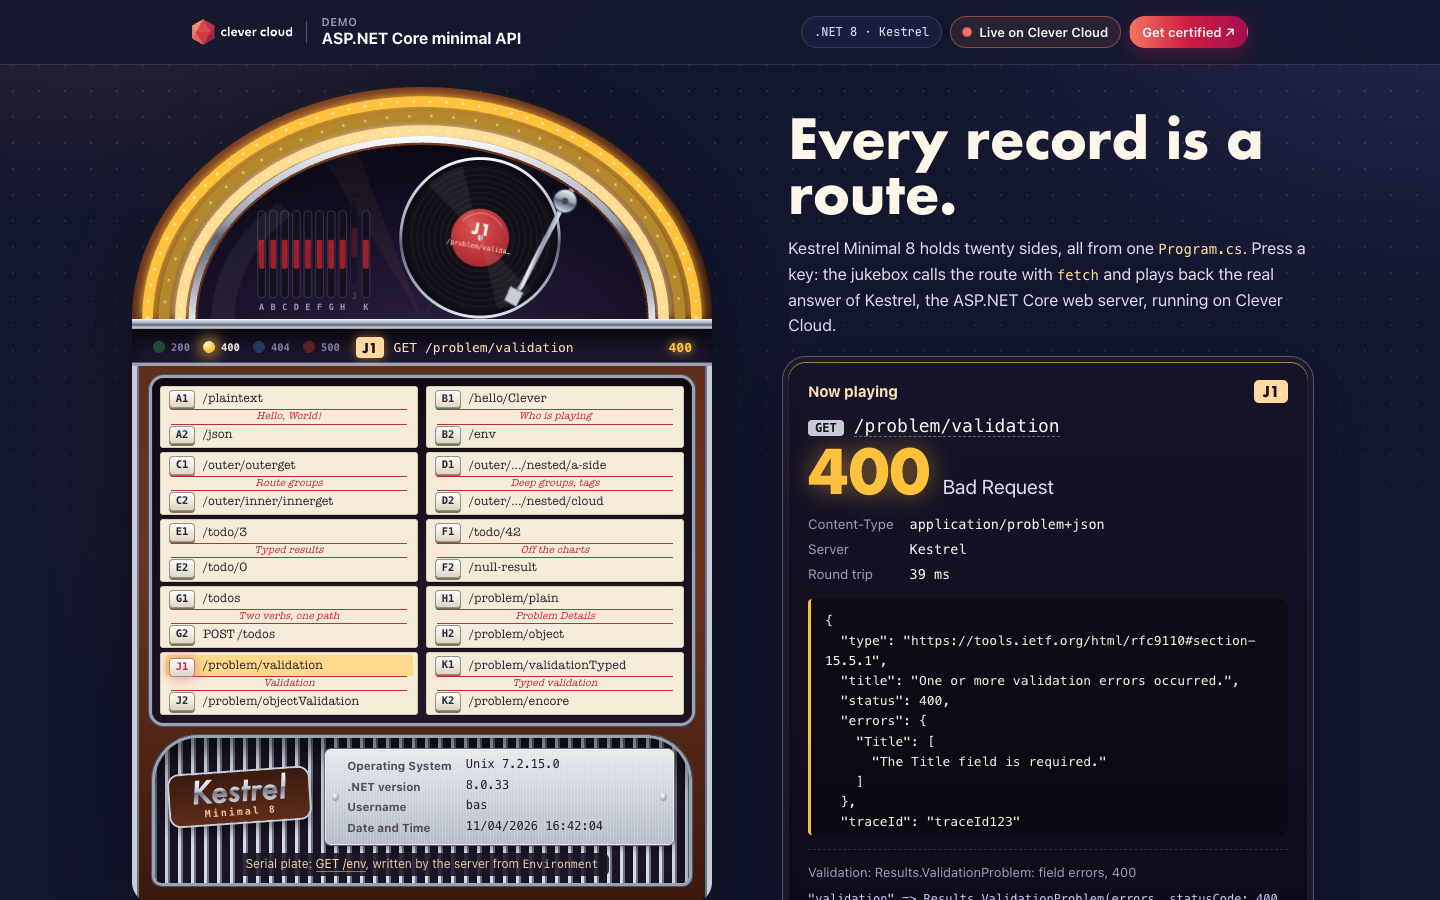
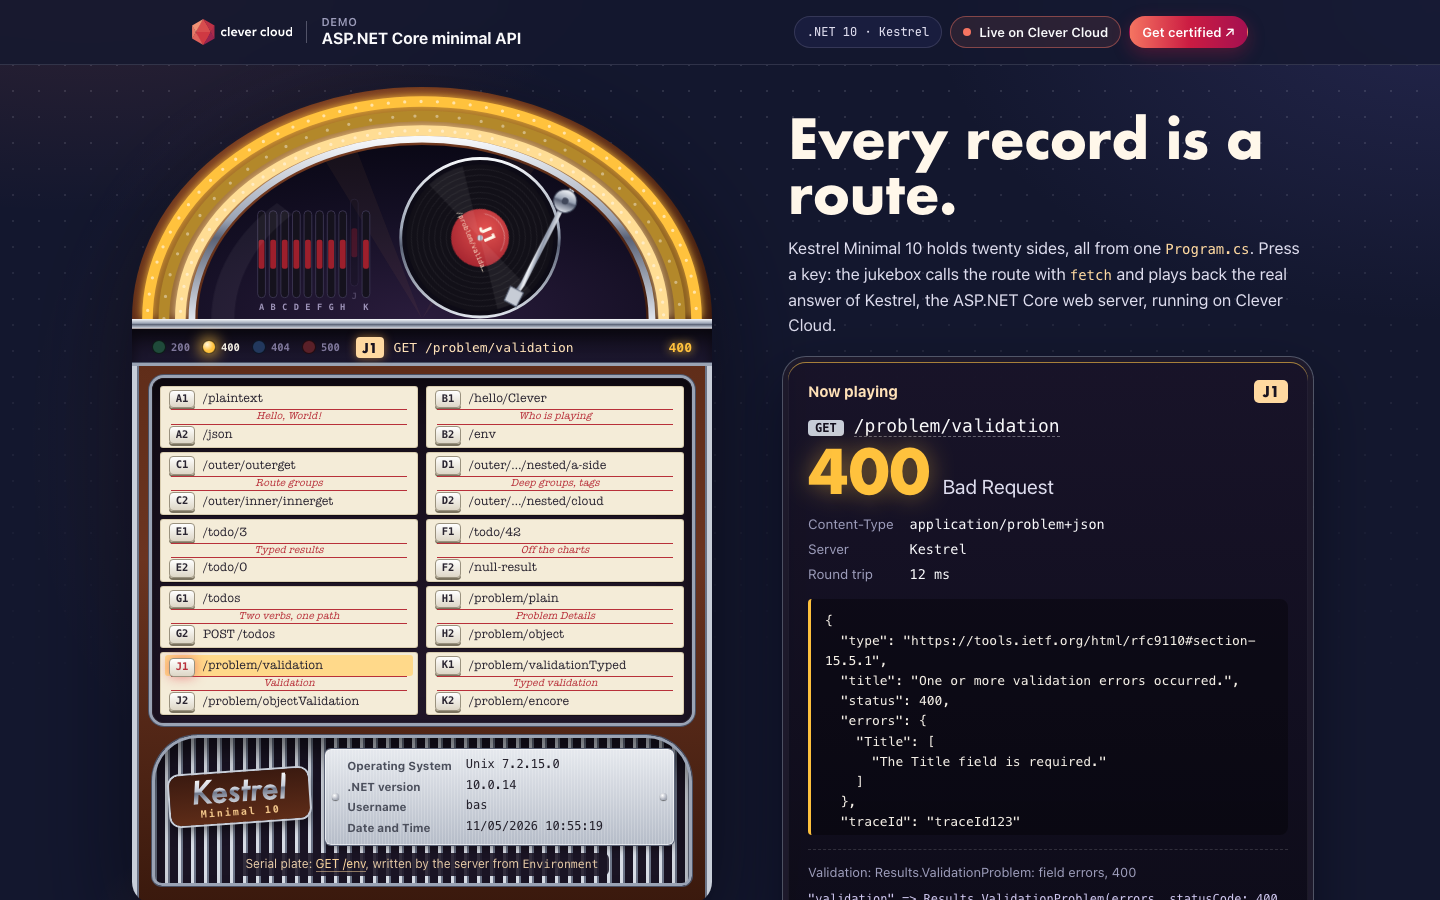
Migrate to .NET 10 (LTS), tested on Clever Cloud
net10.0 in MinimalSample.csproj and CC_DOTNET_VERSION=10.0; Program.cs unchanged, no package to update. The page says .NET 10 (pill, nameplate, liner). README: deploy steps, build command, measured times (deploy 58 s, domain 77 s later, smoke test 26/26 on 5 November 2026), ASPNETCORE_URLS is not set by Clever Cloud (checked on the instance), ten records / twenty sides. Screenshots retaken on Clever Cloud.

Changed region(s): [[0.5312, 0.2489, 0.9062, 0.3111], [0.5625, 0.0311, 0.5938, 0.0622], [0.3125, 0.2489, 0.3438, 0.28]]

diff --git a/wwwroot/index.html b/wwwroot/index.html
@@ -5,7 +5,7 @@
 <meta name="viewport" content="width=device-width, initial-scale=1">
 <meta name="theme-color" content="#13172e">
 <title>Kestrel jukebox | ASP.NET Core minimal API on Clever Cloud</title>
-<meta name="description" content="A jukebox whose twenty records are the routes of one ASP.NET Core Program.cs. Press a key, hear the real HTTP answer.">
+<meta name="description" content="A jukebox whose ten records, twenty sides in all, are the routes of one ASP.NET Core Program.cs. Press a key, hear the real HTTP answer.">
 <link rel="icon" href="/cc-mark.svg" type="image/svg+xml">
 <link rel="stylesheet" href="/cc-brand.css">
 <link rel="stylesheet" href="/jukebox.css">
@@ -35,7 +35,7 @@
     <div class="cc-topbar__demo"><small>Demo</small>ASP.NET Core minimal API</div>
     <span class="cc-topbar__spacer"></span>
     <nav class="cc-topbar__nav" aria-label="Status">
-      <span class="cc-pill cc-pill--mono cc-hide-sm">.NET 8 · Kestrel</span>
+      <span class="cc-pill cc-pill--mono cc-hide-sm">.NET 10 · Kestrel</span>
       <span class="cc-pill cc-pill--live" id="live-pill"><span class="cc-dot"></span><span id="live-text">Live on Clever Cloud</span></span>
       <a class="cc-pill cc-pill--gradient" href="https://academy.clever.cloud/" target="_blank" rel="noopener">Get certified ↗</a>
     </nav>
@@ -142,7 +142,7 @@
         </div>
 
         <div class="base">
-          <p class="nameplate"><span class="nameplate__brand">Kestrel</span><span class="nameplate__model">Minimal 8</span></p>
+          <p class="nameplate"><span class="nameplate__brand">Kestrel</span><span class="nameplate__model">Minimal 10</span></p>
           <dl class="serial" id="serial" aria-label="Serial plate: the machine that plays, read from GET /env">
             <div><dt>Operating System</dt><dd>reading /env…</dd></div>
             <div><dt>.NET version</dt><dd>…</dd></div>
@@ -157,7 +157,7 @@
     <!-- What the jukebox plays: the real HTTP answer of the route -->
     <section class="liner" aria-labelledby="liner-title">
       <h1 class="liner__title" id="liner-title">Every record is a route.</h1>
-      <p class="liner__lead">Kestrel Minimal 8 holds twenty sides, all from one <code>Program.cs</code>. Press a key: the jukebox calls the route with <code>fetch</code> and plays back the real answer of Kestrel, the ASP.NET Core web server, running on Clever Cloud.</p>
+      <p class="liner__lead">Kestrel Minimal 10 holds twenty sides, all from one <code>Program.cs</code>. Press a key: the jukebox calls the route with <code>fetch</code> and plays back the real answer of Kestrel, the ASP.NET Core web server, running on Clever Cloud.</p>
 
       <article class="readout" id="readout" data-status="idle" aria-live="polite">
         <header class="readout__head">

diff --git a/README.md b/README.md
@@ -1,8 +1,8 @@
 # Kestrel Jukebox — ASP.NET Core minimal API on Clever Cloud
 
-> A jukebox whose twenty records are the routes of one `Program.cs`. Press a key: the arm drops the record, the page calls the route with `fetch`, and the jukebox shows the real HTTP answer from Kestrel, the ASP.NET Core web server: status code, `Content-Type`, body, and the C# line that produced it. The tubes and the four lamps light up green for 200, amber for 400, blue for 404, red for 500. The serial plate on the base is the machine that plays: operating system, .NET version, user and date, read by the server. On Clever Cloud the **native .NET runtime** finds the single `.csproj`, publishes it in Release, and the app listens on port 8080: no Dockerfile, no add-on, one health check variable.
+> A jukebox whose ten records, twenty sides in all, are the routes of one `Program.cs`. Press a key: the arm drops the record, the page calls the route with `fetch`, and the jukebox shows the real HTTP answer from Kestrel, the ASP.NET Core web server: status code, `Content-Type`, body, and the C# line that produced it. The tubes and the four lamps light up green for 200, amber for 400, blue for 404, red for 500. The serial plate on the base is the machine that plays: operating system, .NET version, user and date, read by the server. On Clever Cloud the **native .NET runtime** finds the single `.csproj`, publishes it in Release with .NET 10 (LTS), and the app listens on port 8080: no Dockerfile, no add-on, two variables (the .NET version and the health check).
 
-![The Kestrel jukebox on Clever Cloud, record J1 playing: amber tubes and the 400 lamp lit, the answer of GET /problem/validation in application/problem+json, and the serial plate of the instance: Unix 7.2.15.0, .NET 8.0.33, user bas](docs/screenshot-desktop.png)
+![The Kestrel jukebox on Clever Cloud, record J1 playing: amber tubes and the 400 lamp lit, the answer of GET /problem/validation in application/problem+json, and the serial plate of the instance: Unix 7.2.15.0, .NET 10.0.14, user bas](docs/screenshot-desktop.png)
 
 <img src="docs/screenshot-phone.png" width="300" alt="The Kestrel jukebox on Clever Cloud on a phone, record E1 playing: green tubes, the 200 lamp lit, GET /todo/3 on the marquee">
 
@@ -14,7 +14,7 @@
 
 Each title strip is a record, each of its two sides is a selection key (letters skip I, as on the old jukeboxes). Click a key, or type its code on the keyboard (`E` then `2`).
 
-| Key | Route | Minimal API feature | What you get (checked on Clever Cloud, 4 November 2026) |
+| Key | Route | Minimal API feature | What you get (checked on Clever Cloud with .NET 10, 5 November 2026) |
 |---|---|---|---|
 | A1, A2 | `GET /plaintext`, `GET /json` | A string becomes `text/plain`, an object becomes JSON | `Hello, World!` · `{"message":"Hello, World!"}` |
 | B1 | `GET /hello/{name}` | Route parameter; the name comes from the dedication card | `Hello, Clever!` for `/hello/Clever` |
@@ -43,6 +43,7 @@ clever scale --min-flavor nano --max-flavor XS --min-instances 1 --max-instances
 clever scale --build-flavor M
 
 # 2. Variables
+clever env set CC_DOTNET_VERSION 10.0
 clever env set CC_HEALTH_CHECK_PATH /plaintext
 
 # 3. Deploy
@@ -50,18 +51,19 @@ clever deploy
 clever open
 ```
 
-No add-on, no secret, no setup script. Clever Cloud detects the single `.csproj` and builds with `dotnet publish --framework net8.0 --configuration Release`; `wwwroot/` is published with it.
+No add-on, no secret, no setup script. Clever Cloud detects the single `.csproj` and builds with `dotnet publish --framework net10.0 --runtime exherbo-x64 --configuration Release MinimalSample.csproj`; `wwwroot/` is published with it.
 
-The app must listen on `0.0.0.0:8080`: `appsettings.json` sets `"Urls": "http://0.0.0.0:8080"`. Without it, Kestrel binds `localhost:5000` and the deploy fails its health check after about 4 minutes ("Your application is not listening on 8080"), as seen on 4 November 2026. With it, `clever deploy` took 60 s; the domain then answered after about 70 s more.
+The app must listen on `0.0.0.0:8080`: `appsettings.json` sets `"Urls": "http://0.0.0.0:8080"`. Without it, Kestrel binds `localhost:5000` and the deploy fails its health check after about 4 minutes ("Your application is not listening on 8080"), as seen on 4 November 2026.
 
-**.NET 8 reaches end of support on 10 November 2026.** The Clever Cloud docs accept `10.0 (LTS)` through `CC_DOTNET_VERSION`. The migration is `<TargetFramework>net10.0</TargetFramework>` plus `clever env set CC_DOTNET_VERSION 10.0`, to be tested with a local .NET 10 SDK first.
+**.NET 10 (LTS).** The project targets `net10.0` and `CC_DOTNET_VERSION` is `10.0`, the value the Clever Cloud docs give for `10.0 (LTS)`: the build log says `Using .NET version 10.0` and SDK 10.0.114, the serial plate reads .NET 10.0.14. .NET 8, the previous target, reaches end of support on 10 November 2026. The migration changed no line of `Program.cs` (the project has no NuGet package to update): every route still answers as the table above says, status, `Content-Type` and body. Tested on Clever Cloud on 5 November 2026 (one nano instance, M build): `clever deploy` took 58 s, the domain answered 77 s later, `tests/smoke.sh` passed 26 of 26.
 
 ## Variables
 
 | Variable | Set by | Role |
 |---|---|---|
+| `CC_DOTNET_VERSION` | you | `10.0`: the .NET SDK and runtime that build and run the app, to match `net10.0` in `MinimalSample.csproj`. The build log says `Using .NET version 10.0` |
 | `CC_HEALTH_CHECK_PATH` | you | `/plaintext`, which answers `200 Hello, World!`. "If these paths don't return a 2xx response code, the deployment fails." |
-| `ASPNETCORE_URLS` | Clever Cloud | `http://0.0.0.0:8080`: Kestrel listens there. The code does not read `PORT` |
+| `ASPNETCORE_URLS` | nobody | Not set on Clever Cloud: on the instance, 5 November 2026, the Kestrel process had no `ASPNETCORE_*` variable, and `PORT=8080`, which the code does not read. Kestrel listens on `0.0.0.0:8080` because of `Urls` in `appsettings.json` |
 | `CC_APP_NAME`, `APP_ID`, `INSTANCE_NUMBER`, `INSTANCE_TYPE`, `CC_PRETTY_INSTANCE_NAME`, `CC_COMMIT_ID`, `CC_DEPLOYMENT_ID` | Clever Cloud | Shown on the "Running on Clever Cloud" card through `GET /platform` (the commit shortened to 7 characters) |
 | `CC_DOTNET_PROJ` | optional, not needed | Only "If multiple project files are present in your repository"; the single `MinimalSample.csproj` is detected |
 
@@ -78,7 +80,7 @@ wwwroot/jukebox.js              the catalogue of the 20 sides, fetch, the readou
 wwwroot/jukebox.css             the jukebox's own styles (walnut, chrome, ivory strips, lamp colours, reduced motion)
 wwwroot/cc-brand.css, *.svg     the Clever Brand Kit, copied as is (logo, certification badge, favicon)
 tests/smoke.sh                  curl on every route: status, Content-Type or body, the CSP header
-MinimalSample.csproj            Microsoft.NET.Sdk.Web, net8.0, nullable and implicit usings on
+MinimalSample.csproj            Microsoft.NET.Sdk.Web, net10.0, nullable and implicit usings on
 appsettings.json                log levels, AllowedHosts *, Urls http://0.0.0.0:8080 (the port Clever Cloud expects)
 appsettings.Development.json    log levels in Development
 Properties/launchSettings.json  the dotnet run profile: http://localhost:5000, https://localhost:5001, Development
@@ -94,6 +96,6 @@ dotnet run --no-launch-profile                              # Production, on 0.0
 tests/smoke.sh http://localhost:8080                        # 26 checks; any base URL works, the Clever domain too
 ```
 
-Requires the .NET 8 SDK, and curl for the smoke test. Locally, the serial plate shows your own machine and user name, and the platform card says "Local".
+Requires the .NET 10 SDK, and curl for the smoke test. Locally, the serial plate shows your own machine and user name, and the platform card says "Local".
 
 MIT License.
